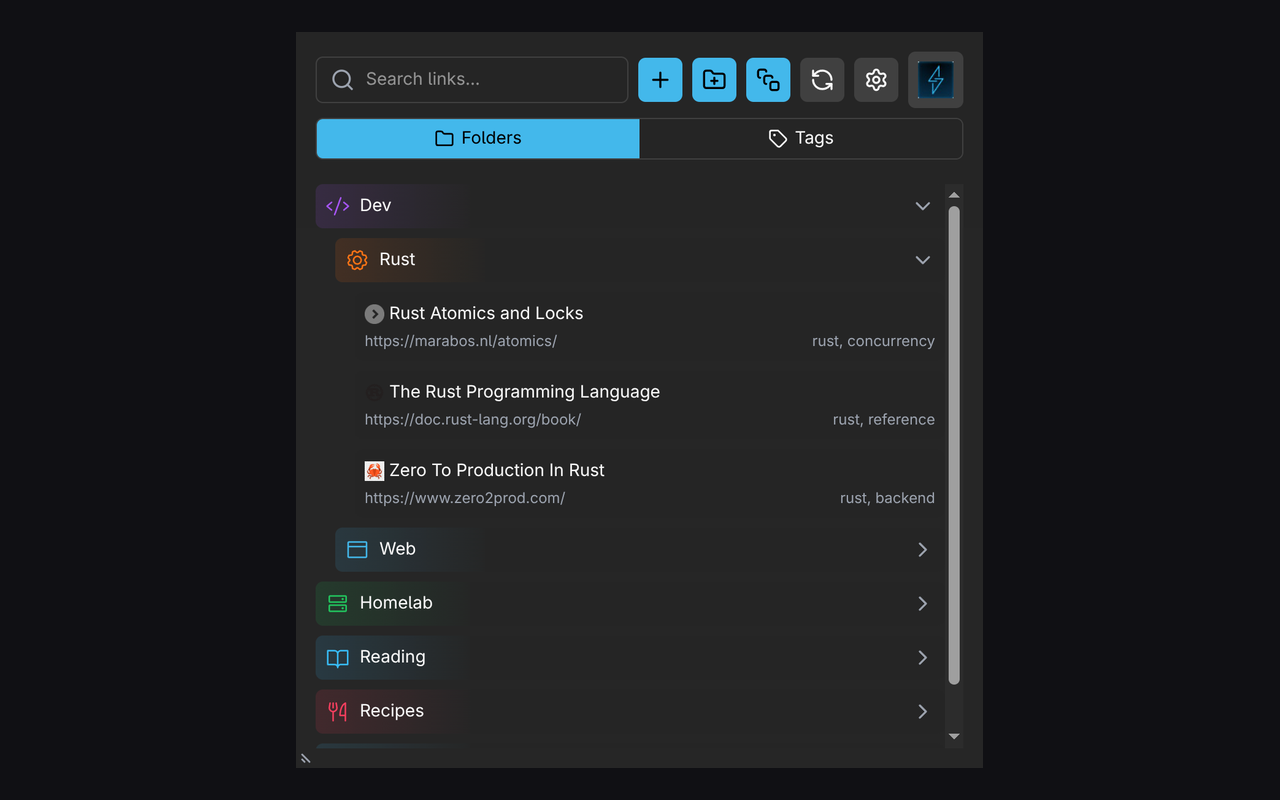
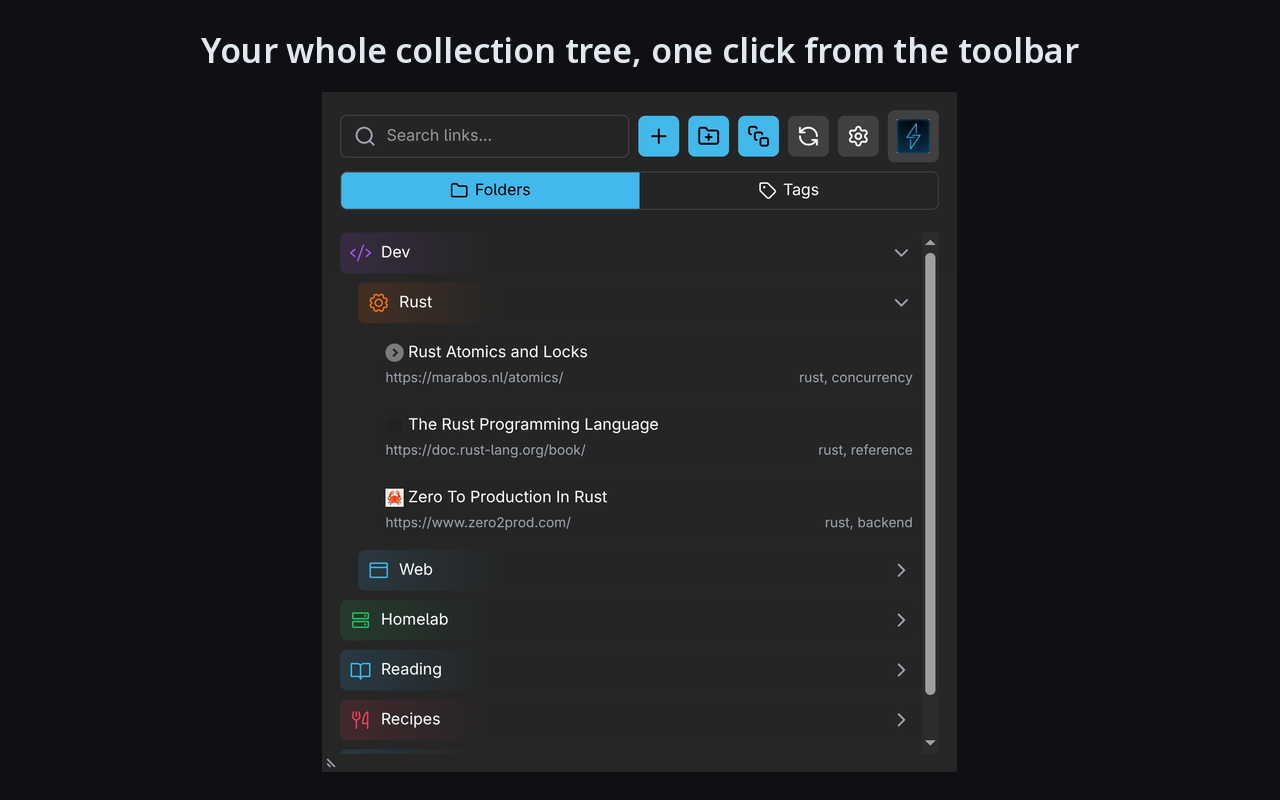
docs: benefit-led store copy and captioned screenshots
The listing read as a feature list. Detailed description now opens on the
gap it fills (the official extension captures a page; this one manages the
library you already have), states the Linkwarden-instance prerequisite up
front so nobody installs it expecting a standalone bookmark service, and
groups the features as things you do rather than things it has.

Screenshots carry the caption in the canvas, since Chrome has no caption
field: tree / tags / save-with-metadata / sessions / setup+theming.

Short description drops the long disclaimer in favour of value; the item
name's "(Unofficial)" and the disclaimer in the detailed description keep
the trademark position. The packaged manifest description is untouched so
listing copy never forces a rebuild.

Changed region(s): [[0.1562, 0.0312, 0.8438, 0.9375], [0.625, 0.25, 0.75, 0.9375], [0.6562, 0.5625, 0.6875, 0.5938]]

diff --git a/docs/STORE_LISTING.md b/docs/STORE_LISTING.md
@@ -27,33 +27,65 @@ Everything the Developer Dashboard asks for, prepared. Package: `extension.zip`
 **Category:** Productivity
 **Language:** English (United States)
 
-**Short description** (≤132 chars):
+**Short description** (≤132 chars — shown in search results, so it carries value, not
+the disclaimer; "(Unofficial)" in the item name plus the disclaimer in the detailed
+description are the trademark mitigation):
 
-> Browse, search and save to your self-hosted Linkwarden library from the toolbar. Unofficial — not affiliated with Linkwarden.
+> Browse, search and manage your self-hosted Linkwarden library from the toolbar — not just save to it. Unofficial client.
+
+The dashboard prefills this field from the packaged manifest description ("Browse,
+search and save to your self-hosted Linkwarden library from the toolbar. Unofficial —
+not affiliated with Linkwarden."). Overwrite it with the line above; the manifest text
+is deliberately left alone so the shipped package does not have to be rebuilt and
+re-versioned for listing copy.
 
 **Detailed description:**
 
-> Linkwarden Manager is an unofficial client for Linkwarden, the self-hosted
-> bookmark manager. Point it at your own instance with an API token and manage
-> your library from the toolbar without opening the web app.
+> Your Linkwarden library in a popup — not just a save button.
 >
-> Features
-> - Browse your collection tree, or switch to a tag grid and drill into a tag's links
-> - Full-text search across your library
-> - Save the current tab (Ctrl+Shift+S) with folder, tags and notes before it's saved
-> - Save every tab in the window as a session, optionally into a new dated collection
-> - Reopen a collection as a fresh window to restore a session
-> - Drag links between collections; create nested collections by typing `AI/analysis`
-> - Edit and delete links and collections
-> - "Already saved" badge on the toolbar icon for the page you're on
-> - Light/dark theme following your system, resizable popup
+> The official extension is built to capture the page you are on. This one is built
+> for everything after that: the collections, tags and links you have already saved,
+> one click from the toolbar, without opening the web app to make every small change.
 >
-> Requires your own Linkwarden instance (self-hosted or cloud) and an API token
-> from Settings → Access Tokens. No account with the extension, no analytics, no
-> telemetry, no backend of its own.
+> You need your own Linkwarden instance — self-hosted or Linkwarden Cloud — and an
+> API token. This is a client for it, not a bookmark service of its own.
 >
-> Unofficial project, not affiliated with or endorsed by Linkwarden.
-> Source: https://github.com/matthew-b-payne/linkwarden-manager
+> WHAT YOU CAN DO WITHOUT LEAVING THE PAGE
+>
+> • Browse the full collection tree — expand and collapse, with the icons and colours
+>   you set on your collections in Linkwarden
+> • Switch to tag view: a grid of every tag with its link count and latest activity;
+>   click one to drill into its links
+> • Search titles, URLs, notes and tag names across the whole library from the popup
+> • Save the current tab with Ctrl+Shift+S — the popup opens pre-filled, so you still
+>   pick the collection, tags and notes before anything is saved
+> • Know whether the page you are on is already saved: the toolbar icon badges it,
+>   kept current by a background refresh you can tune or turn off
+> • Move a link by dragging it onto another collection — hover a closed collection and
+>   it springs open, so a nested target takes one gesture
+> • Create nested collections by typing a path: "Dev/Rust" reuses your existing "Dev"
+>   and creates "Rust" inside it
+> • Edit and delete links and collections in place — title, URL, collection, tags, notes
+> • Save every tab in the window as a session: into a new dated collection nested under
+>   "Sessions", or any collection you choose, with tags applied to all of them
+> • Reopen a collection as a fresh window when you want that session back
+> • Resize the popup to the size you actually want and it stays there; light, dark or
+>   follow the system, in Linkwarden's own seven accent colours
+>
+> SET UP ONCE
+>
+> Open Options, enter your instance's address and an API token (in Linkwarden:
+> Settings → Access Tokens). Chrome then asks for access to that one address and
+> nothing else — the extension ships with no site access at all.
+>
+> NO ACCOUNT, NO TRACKING
+>
+> There is no account with this extension, no analytics, no telemetry and no server of
+> its own. It talks to your instance and nowhere else. (Site icons beside links are
+> fetched from DuckDuckGo, which is disclosed in the privacy policy.)
+>
+> Unofficial project — not affiliated with, endorsed by, or supported by Linkwarden.
+> Open source: https://github.com/matthew-b-payne/linkwarden-manager
 
 **Homepage URL:** `https://github.com/matthew-b-payne/linkwarden-manager`
 **Support URL:** `https://github.com/matthew-b-payne/linkwarden-manager/issues`
@@ -118,13 +150,16 @@ to DuckDuckGo. Disclosed in `PRIVACY.md`.
 
 Upload `docs/store/` in order:
 
-| File | Shows |
-| --- | --- |
-| `01-folder-tree.png` | Nested collection tree, per-collection icons/colours, links with favicons, tags and URLs |
-| `02-tags.png` | Tag card grid with latest date and link count, tag filter |
-| `03-add-link.png` | Add Link dialog: URL, title, searchable folder picker, multi-tag, notes |
-| `04-save-session.png` | Save-all-tabs dialog: new session folder, nest under Sessions, tags |
-| `05-options.png` | Options: host, masked token, appearance + seven accents, sort, badge refresh |
+| File | Caption baked in | Shows |
+| --- | --- | --- |
+| `01-folder-tree.png` | Your whole collection tree, one click from the toolbar | Nested tree, per-collection icons/colours, links with favicons, tags and URLs |
+| `02-tags.png` | Every tag with its link count and latest activity | Tag card grid, tag filter |
+| `03-add-link.png` | Save with collection, tags and notes — Ctrl+Shift+S | Add Link dialog: URL, title, searchable folder picker, multi-tag, notes |
+| `04-save-session.png` | Save every open tab as a session you can reopen | Save-all-tabs dialog: new session folder, nest under Sessions, tags |
+| `05-options.png` | Point it at your own instance, themed like the web app | Options: host, masked token, appearance + seven accents, sort, badge refresh |
+
+The captions are rendered into the canvas (Chrome shows no caption field), so the
+screenshots read as a story rather than five popup pictures.
 
 They were captured from the real extension driven headless against a **throwaway
 Linkwarden API stub with demo data** — the product exactly as it runs, with no
@@ -135,6 +170,9 @@ after a UI change: capture the popup page at 560x600 (Options at 620x700) with
 ```bash
 magick shot.png -resize 'x736>' -background '#101014' -gravity center -extent 1280x800 -alpha off store-shot.png
 ```
+
+Captions are drawn with Noto Sans at 34px semibold, `#e2e8f0`, centred in a 44px band
+at the top of the canvas; the shot is capped at 680px tall beneath it.
 
 Both promo tiles are HTML/CSS rendered at exact size in Chromium (sources
 regenerable from the icon plus the `01` popup capture): icon, wordmark, one-line
